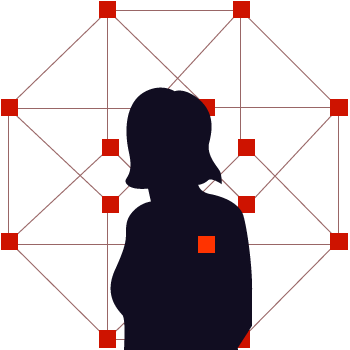
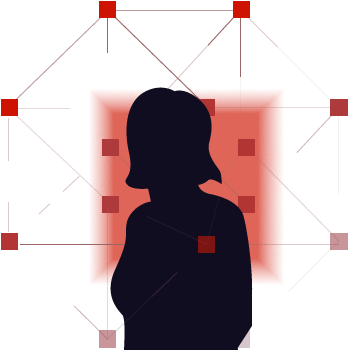
ENH: max height on scrollthing

diff --git a/be/proj/templates/proj/splash.html b/be/proj/templates/proj/splash.html
@@ -11,7 +11,7 @@
   </div>
   <div id="scroll" ng-controller="splashCtrl"
     ng-class="{mainstate: yLoc >= amountToScroll}">
-    <div id="scrollthing" ng-style="scrollThingStyle">
+    <div id="scrollthing" ng-style="scrollThingStyle" style="max-height: 2000px">
     </div>
     <section id="splash" class="splash" ng-class="{hidden: yLoc > 0}">
       <div class="splash-text">
@@ -31,12 +31,8 @@
           <div class="splash-square red"></div>
         </div>
         <div ng-repeat="range in ranges"
-             ng-class="{pane: yLoc > range.yScroll && yLoc < range.yScrollEnd && yLoc <= 2000}">
+             ng-class="{pane: yLoc > range.yScroll && yLoc < range.yScrollEnd}">
           <img class="splash-square" ng-src="/static/img/animation/transitional-support-{$range.num$}.png"/>
-        </div>
-
-        <div ng-class="{pane: yLoc >= 2000}">
-          <img class="splash-square" ng-src="/static/img/animation/transitional-support-22.png"/>
         </div>
     </section>
 

diff --git a/be/proj/static/css/base.css b/be/proj/static/css/base.css
@@ -257,7 +257,7 @@ body {
     position: fixed;
     top: 0; }
     #scroll .intro-text .body-text {
-      padding-top: 44px; }
+      padding-top: 88px; }
       #scroll .intro-text .body-text .visible .pane {
         opacity: .8 !important; }
       #scroll .intro-text .body-text .slide {

diff --git a/be/proj/static/css/base.scss b/be/proj/static/css/base.scss
@@ -238,7 +238,7 @@ body {
       top: 0;
 
       .body-text {
-        padding-top: 44px;
+        padding-top: 88px;
 
         .visible .pane {
           opacity: .8 !important;
